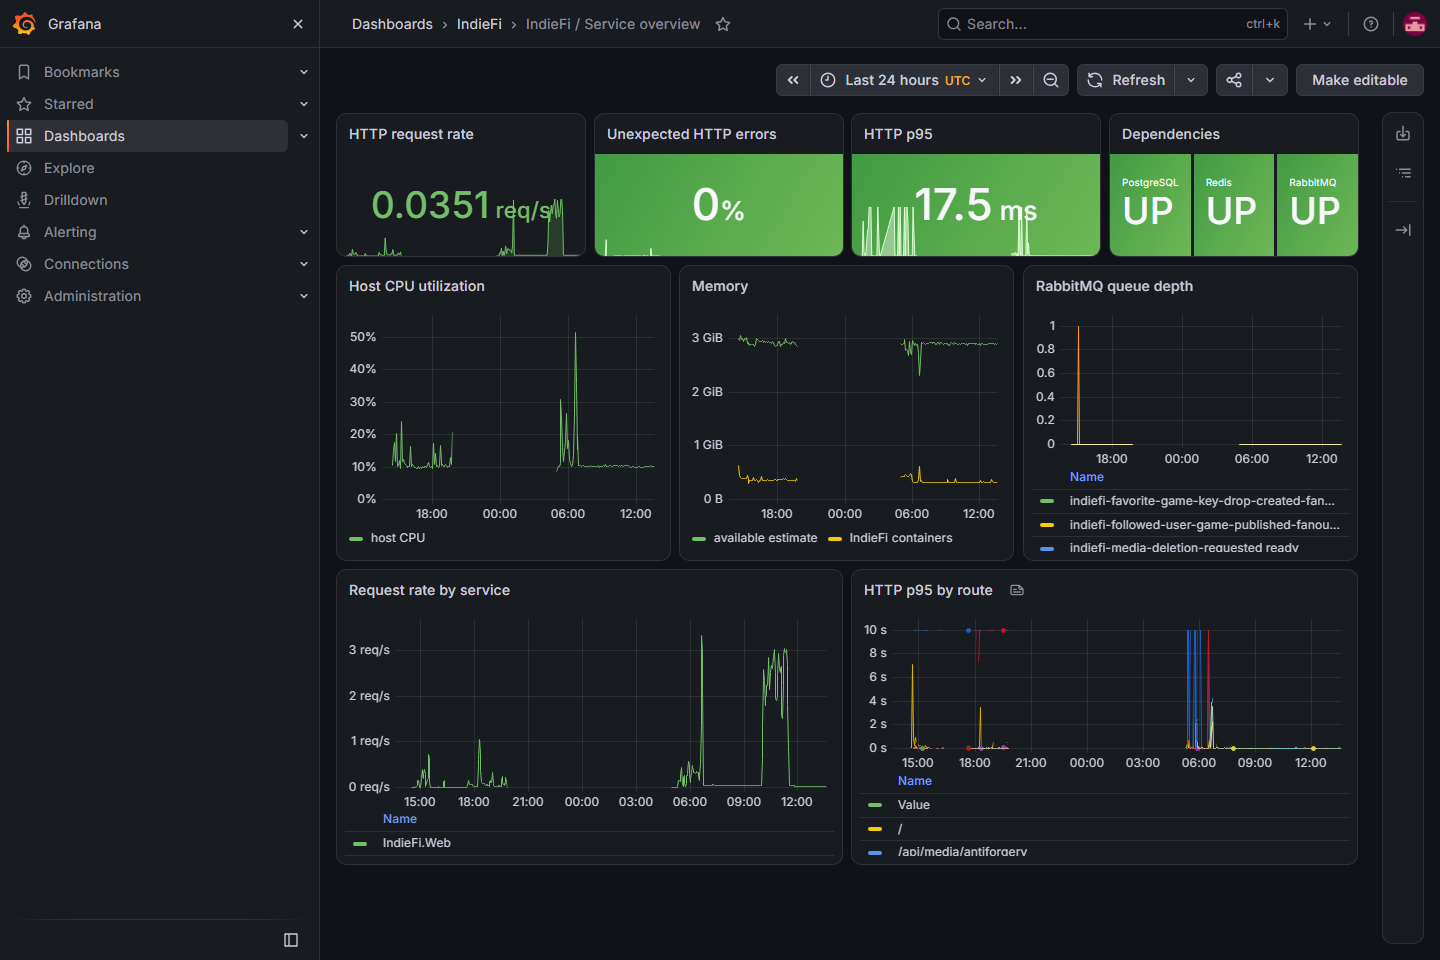
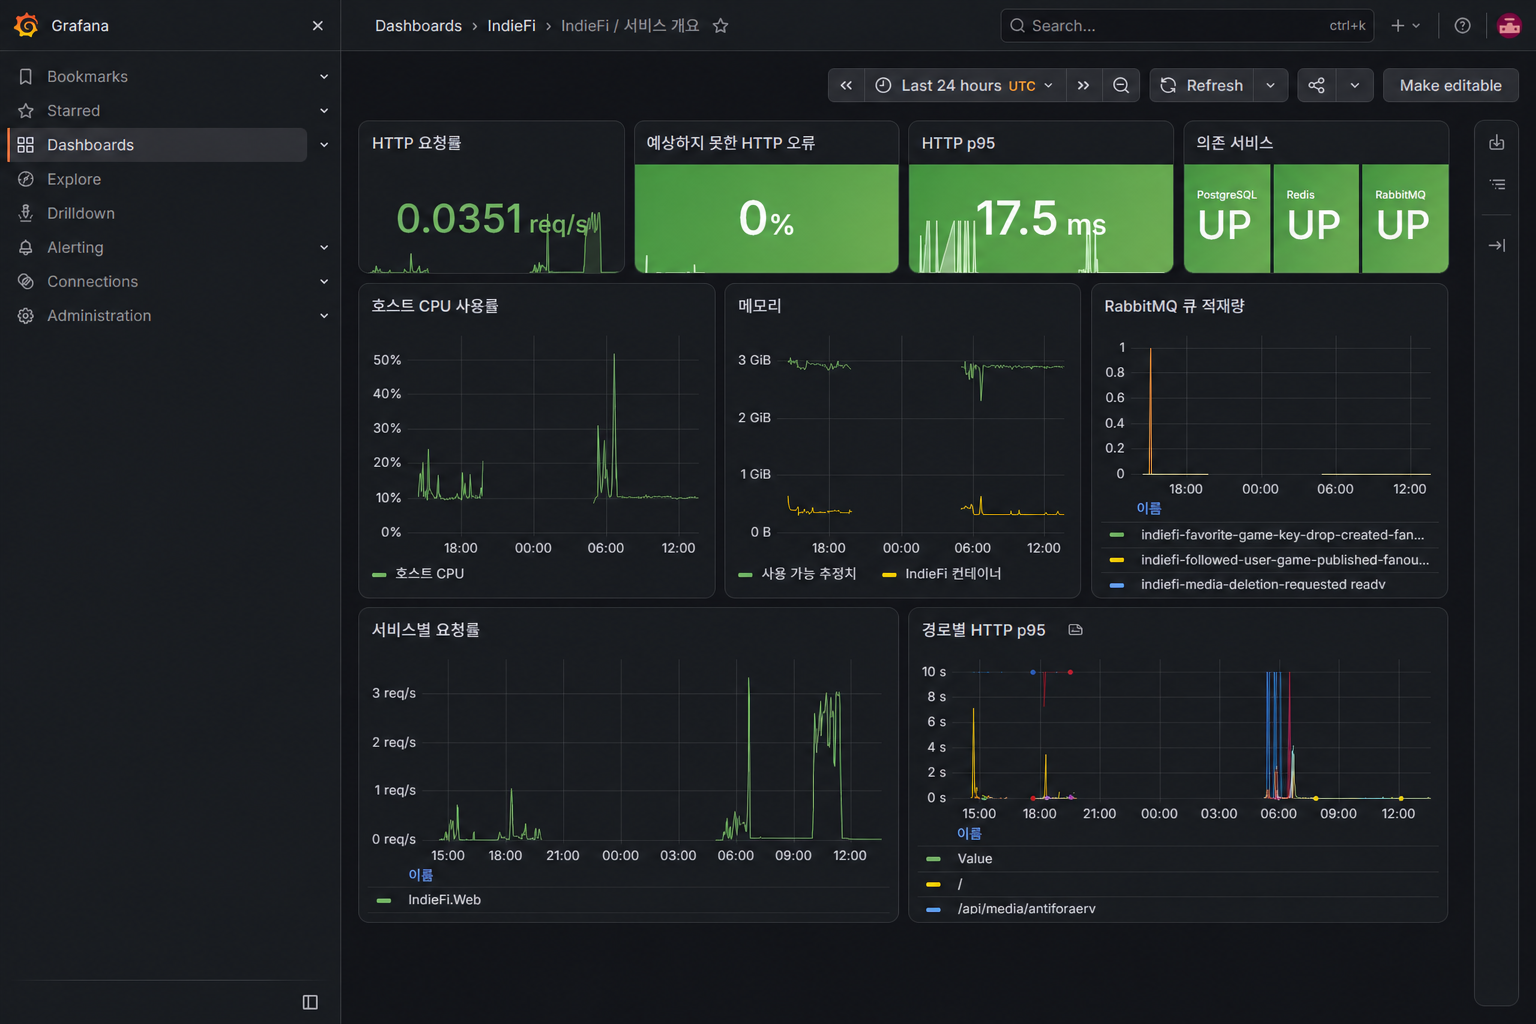
docs: 프로젝트 README 완성

diff --git a/README.md b/README.md
@@ -1,0 +1,201 @@
+# IndieFi
+
+> IndieFi는 인디 게임 개발자들이 서로 플레이테스트를 하고 피드백을 받을 수 있도록 만든 웹 서비스 프로젝트입니다.
+
+**바로가기**
+
+- [핵심 기능과 설계](#핵심-기능과-설계) · [검증과 운영](#검증과-운영)
+- [아키텍처와 기술 스택](#아키텍처와-기술-스택)
+- [프로젝트 구조](#프로젝트-구조) · [로컬 실행](#로컬-실행)
+
+<details>
+<summary><strong>프로젝트 배경 및 문제 상황</strong></summary>
+
+최근에는 AI를 포함한 제작 도구가 발전하면서 개인과 소규모 팀도 게임 제작에 도전하기 쉬워졌습니다. [SteamDB 집계](https://steamdb.info/stats/releases/)에서 Steam의 연간 게임 출시 수는 2019년 8,063개에서 2024년 18,468개, 2025년 21,318개로 증가했습니다. 더 많은 게임이 만들어지는 만큼 하나의 게임이 플레이어에게 발견되고, 출시 전에 충분히 검증받기는 어려워지고 있습니다.
+
+특히 인디 개발자는 제한된 인력과 비용 안에서 플레이테스트 참가자 모집, 버그와 사용성 확인, 객관적인 피드백 수집과 초기 홍보까지 직접 해결해야 합니다. [Gamedev.js 2024 설문](https://gamedevjs.com/survey/2024/)에서도 응답자의 93.3%가 직접 게임을 테스트했지만 자체 QA 팀이 있다는 응답은 10.3%에 불과했습니다. [인디 개발자 대상 플레이테스트 연구](https://eprints.whiterose.ac.uk/id/eprint/216480/)에서도 적절한 참가자를 찾고 피드백 데이터를 다루는 문제가 주요 어려움으로 확인됐습니다.
+
+IndieFi는 이 중 **출시 전 플레이테스터와 피드백을 확보하는 문제**에 집중했습니다. 다른 게임을 리뷰해 얻은 크레딧으로 자신의 게임에 리뷰를 요청하고, 게임 소개·검색과 한정 게임 키 배포를 통해 초기 플레이어와 만날 수 있도록 구성했습니다.
+
+</details>
+
+`C#` · `.NET 10` · `ASP.NET Core` · `PostgreSQL 18` · `Redis` · `RabbitMQ` · `OpenTelemetry`
+
+![IndieFi 로컬 샘플 화면](assets/readme/product-overview.png)
+
+> **현재 공개 서버는 중지된 상태입니다.**
+
+## 핵심 기능과 설계
+
+### 1. 크레딧 기반 피드백 교환
+
+**다른 게임 리뷰** → **크레딧 획득** → **내 게임의 리뷰 요청** → **리뷰어 자동 배정** → **피드백 수령**
+
+1. 다른 개발자의 게임을 리뷰하면 자신의 게임에 피드백을 요청할 때 사용할 크레딧을 받습니다.
+2. 크레딧을 사용한 요청은 오래 기다린 순서와 배정 조건에 따라 다른 리뷰어에게 자동으로 배정됩니다.
+3. 리뷰가 기한 안에 끝나지 않으면 다시 대기 상태로 돌아가며, 요청을 취소하면 사용한 크레딧을 돌려받습니다.
+
+![크레딧 기반 리뷰 작업 화면](assets/readme/credit-review-flow.png)
+
+*진행 중인 작업과 완료·만료 이력, 피드백을 기다리는 요청을 보여주는 로컬 샘플 화면입니다.*
+
+| 지켜야 할 조건 | 적용한 설계 |
+|---|---|
+| 동시에 요청해도 잔액이 음수가 되지 않음 | 적립·사용·환불을 누적 기록하는 크레딧 장부, PostgreSQL 트리거와 CHECK, 잔액 직접 수정 권한 제거 |
+| 차감과 리뷰 요청이 일부만 반영되지 않음 | 크레딧 차감과 요청 생성을 하나의 트랜잭션으로 처리 |
+| 하나의 요청은 한 명에게만 배정됨 | `SKIP LOCKED`, 부분 UNIQUE 인덱스와 제한 시간 배정 |
+| 재시도와 동시 종료가 중복 결과를 만들지 않음 | 요청 식별자와 상태·마감 시각을 이용한 조건부 갱신, 원래 차감을 참조하는 환불 기록 |
+
+실제 PostgreSQL에서 동시 요청과 중간 실패, 반복 제출·취소와 제출·만료 경쟁을 실행해 잔액 음수와 중복 배정·지급·환불이 발생하지 않는 것을 확인했습니다. 트리거와 DB 권한은 애플리케이션 밖의 방어선인 만큼 마이그레이션과 실제 DB 통합 테스트로 함께 관리합니다.
+
+### 2. 한정 게임 키 배포
+
+**배포 예약** → **사용자 사전 대기** → **순차 입장** → **자격·재고 확인** → **게임 키 1회 지급**
+
+1. 개발자는 오픈 시각과 게임 키를 등록하고 가입 기간·완료 리뷰 수 같은 참여 조건을 선택할 수 있습니다.
+2. 사용자는 오픈 알림을 신청하고 30분 전부터 가상 대기실에서 자신의 순서를 확인합니다.
+3. 차례가 되면 제한 시간 안에 키를 요청하며, 조건을 충족하고 재고가 남아 있으면 키 하나를 받습니다.
+4. 준비한 키가 모두 지급되거나 개발자가 조기 마감하면 대기실과 지급을 종료합니다.
+
+![한정 게임 키 배포 대기실 화면](assets/readme/key-drop-waiting-room.png)
+
+*현재 재고와 참여 조건, 사용자의 대기 순번을 보여주는 로컬 샘플 화면입니다.*
+
+| 담당 상태 | 저장소 | 처리 방식 |
+|---|---|---|
+| 대기 순번과 짧은 입장 권한 | Redis | Lua 스크립트로 진입·승격을 원자적으로 처리하고 서버 시각·TTL·AOF 사용 |
+| 키 재고와 최종 지급 결과 | PostgreSQL | 행 잠금, `FOR UPDATE SKIP LOCKED`, 사용자·키 UNIQUE와 상태 버전으로 확정 |
+| Redis 장애 후 대기실 복구 | Redis + PostgreSQL | PostgreSQL의 확정된 지급 결과를 기준으로 임시 상태를 재동기화 |
+
+단일 EC2의 60명 집중 유입에서 42회 지급 요청 중 준비한 키 36개가 정확히 지급됐고 HTTP 오류와 사용자·키 중복은 없었습니다. 100명에서도 지급 정합성은 유지됐지만 대기 상태 조회 p95가 목표 750ms를 넘어 1.291초가 됐습니다. 따라서 **응답시간 목표까지 확인한 범위는 60명**이며, Redis 자체의 최대 처리량이나 동시 수천 명을 검증한 결과로 표현하지 않습니다.
+
+### 3. 알림과 미디어 비동기 처리
+
+- **고려한 실패:** DB 트랜잭션 확정과 메시지 발행을 따로 수행하면 DB만 반영된 상태에서 프로세스가 종료될 수 있습니다. RabbitMQ의 최소 한 번 전달(at-least-once) 방식에서는 처리한 메시지가 다시 전달될 수도 있습니다.
+- **설계 결정:** 도메인 변경과 Outbox 메시지를 같은 트랜잭션에 저장하고 Worker가 RabbitMQ로 발행합니다. 소비 측은 Inbox와 이벤트 ID로 중복을 확인하고, 실패가 반복될수록 대기 시간을 늘려 재시도한 뒤 한도를 넘은 메시지는 오류 큐로 분리합니다.
+
+```mermaid
+flowchart LR
+    A["사용자 요청"] --> B["PostgreSQL 트랜잭션<br/>도메인 변경 + Outbox 저장"]
+    B --> C["Outbox 발행"]
+    C --> D["RabbitMQ"]
+    D --> E["Worker + Inbox"]
+    E --> F["알림·R2·SES 처리"]
+    F -- 일시 실패 --> G["대기 시간을 늘려 재시도"]
+    G --> F
+    G -- 한도 초과 --> H["오류 큐"]
+```
+
+RabbitMQ·R2·SES 장애 뒤 보류 작업이 다시 처리되고 알림·미디어·이메일 상태가 중복 없이 최종 상태로 수렴하는 것을 확인했습니다. 이는 최소 한 번 전달에서 안전하게 처리하도록 만든 것이며 정확히 한 번 전달(exactly-once)을 구현했다는 의미는 아닙니다.
+
+### 4. 계정 이메일과 게임 키 보호
+
+DB가 유출되더라도 이메일과 게임 키 원문이 바로 노출되지 않도록, 나중에 원문이 필요한 데이터와 다시 복원할 필요가 없는 데이터를 구분했습니다.
+
+| 데이터 | DB에 저장하는 값 | 사용할 때의 처리 |
+|---|---|---|
+| 계정 이메일 | AES-256-GCM 암호문 + HMAC-SHA-256 검색값 | HMAC으로 찾고 필요한 경우 복호화 |
+| 게임 키 | AES-256-GCM 암호문 + HMAC-SHA-256 중복 확인값 | HMAC으로 중복을 확인하고 지급된 키만 복호화 |
+| 인증·비밀번호 재설정 토큰 | 원문을 복원할 수 없는 해시 | 전달받은 토큰을 다시 해시해 저장값과 비교 |
+
+용도마다 서로 다른 키를 사용하고 키 교체 도구를 마련했습니다. 암호화되지 않은 값이 남아 있으면 최종 마이그레이션을 중단하며, DB와 보호 키를 빈 환경에 복원해 로그인·이메일 조회와 게임 키 복호화까지 확인했습니다. 보호 키를 잃으면 데이터도 복구할 수 없으므로 데이터와 키는 분리해 백업합니다.
+
+### 5. 게임 상세 조회 성능
+
+- **관측:** 개선 전 공개 조회·검색 혼합 부하를 200 RPS(초당 요청 200건)까지 높였을 때 EC2 CPU가 99.99%에 도달했고, k6가 시작하지 못한 테스트 반복이 5,205건 발생했습니다.
+- **분석:** 느린 게임 상세 요청의 OpenTelemetry 요청 추적에는 연관 데이터를 순서대로 조회하는 PostgreSQL 호출 구간이 약 10개 있었습니다. 이를 CPU 포화의 단일 원인으로 단정하지 않고, 측정 가능한 첫 번째 병목 후보로 선택했습니다.
+- **개선:** 화면에 필요한 데이터만 선택하고 연관 조회를 합쳐 상세 요청의 SQL 실행을 4회로 줄인 뒤 같은 EC2·테스트 데이터·부하 조건에서 다시 측정했습니다.
+
+![게임 상세 조회 성능 개선 결과](assets/readme/performance-improvement.png)
+
+| 지표 | 개선 전 | 개선 후 |
+|---|---:|---:|
+| 상세 요청 SQL 실행 | 약 10회 | 4회 |
+| 100 RPS 상세 p95 | 84.57ms | 36.54ms |
+| 200 RPS 시작하지 못한 테스트 반복 | 5,205 | 1,823 |
+
+개선 후에도 200 RPS에서는 시간 초과 96건과 시작하지 못한 테스트 반복 1,823건이 남아 실패 구간으로 분류했습니다. 이 수치는 단일 EC2 `t3.medium`과 해당 부하 조건에서의 결과이며 다른 환경에서도 같은 개선율을 보장한다는 의미는 아닙니다.
+
+### 그 밖의 기능
+
+- 이메일 가입·인증, Google 로그인과 비밀번호 재설정
+- 게임 등록·검색·필터, 프로필·팔로우와 관심 게임
+- 프로필 이미지, 게임 표지와 스크린샷 관리
+- 사이트 내 실시간 알림, 이메일 알림과 수신 설정
+
+## 검증과 운영
+
+단위 테스트에만 머물지 않고 실제 PostgreSQL·Redis·RabbitMQ·MinIO 통합 테스트, Chromium 사용자 흐름과 공인 HTTPS 부하 테스트로 위험을 확인했습니다. 현재 HEAD의 Release 전체 회귀에서는 **1,270개 테스트가 통과**했으며 실패와 건너뜀은 없었습니다.
+
+![IndieFi Grafana 서비스 대시보드](assets/readme/observability-dashboard.png)
+
+*배포 환경에서 HTTP 요청률·오류율·응답시간, 호스트 자원과 의존성 상태를 함께 확인한 Grafana 화면입니다.*
+
+- OpenTelemetry 메트릭·로그·요청 추적을 Grafana에서 연결해 성능 구간과 장애 전후 상태를 확인했습니다.
+- Web·Worker·PostgreSQL·Redis·RabbitMQ·R2·SES를 하나씩 중단하고 복구하는 **7개의 장애 복구 시나리오**를 실행해보았습니다. PostgreSQL 중단 중에도 준비 상태 확인이 200을 반환하던 결함과 Redis 중단 시 대기실이 500을 반환하던 결함을 발견해, 의존성 장애에는 503을 반환하고 복구 후 자동으로 정상화되도록 수정했습니다.
+- RabbitMQ 중단 중에도 작업 의도를 Outbox에 보존했으며, 장애 주입부터 미처리 항목이 0건이 될 때까지 251초가 걸렸습니다. 빈 환경 복원은 첫 시도부터 로그인·이메일 조회·게임 키 복호화 확인까지, 실패 수정 시간을 포함해 약 18분 10초가 걸렸습니다.
+- 모든 push와 pull request에서 GitHub Actions가 전체 빌드와 테스트를 수행합니다. CD는 평소 EC2를 중지하는 비용 조건 때문에 수동으로만 시작합니다.
+- 배포 때는 GitHub OIDC로 AWS 임시 권한을 발급하고, 실행 중에만 GitHub Actions 실행 서버의 IP에 SSH를 열었습니다. 산출물의 SHA-256을 검증한 뒤 커밋별 새 디렉터리에 설치하고 현재 버전을 가리키는 링크를 전환했습니다.
+
+재현 절차와 배포 흐름은 코드 가까이에 남겼습니다.
+
+- [관측 환경](dev/ops/observability/README.md)
+- [백업과 복원](dev/ops/recovery/README.md)
+- [의존성 장애 훈련](dev/ops/failure-drills/README.md)
+- [다중 프로세스 검증](dev/ops/scale-validation/README.md)
+- [서버 검증 계약](dev/ops/validation/README.md)
+- [CI/CD](.github/workflows/ci.yml)
+
+## 아키텍처와 기술 스택
+
+![IndieFi 시스템 아키텍처](assets/readme/system-architecture.png)
+
+기능 중심 논리 모듈로 구성한 **모듈형 모놀리스**입니다. HTTP와 UI는 `IndieFi.Web`이, 이메일·알림·미디어 같은 비동기 작업은 `IndieFi.Worker`가 처리합니다.
+
+| 영역 | 기술 | 책임 |
+|---|---|---|
+| Web | C#, .NET 10, ASP.NET Core Razor Pages, SignalR | HTTP·UI, 인증과 실시간 상태 갱신 |
+| 영구 데이터 | EF Core, Npgsql, PostgreSQL 18 | 크레딧·리뷰·키 지급의 최종 상태와 DB 제약조건으로 지키는 데이터 정합성 |
+| 공유 상태 | StackExchange.Redis, Redis | 대기실, 요청 제한, 캐시와 SignalR 서버 간 메시지 공유 |
+| 메시징 | MassTransit, RabbitMQ | Outbox·Inbox 기반 비동기 전달과 여러 Worker의 메시지 분담 처리 |
+| 미디어 | Cloudflare R2, S3 API, SkiaSharp | 브라우저 직접 업로드, 객체 저장과 파생 이미지 |
+| 관측 | OpenTelemetry, Prometheus, Loki, Tempo, Grafana | 메트릭·로그·요청 추적의 연계 분석 |
+| 운영·검증 | AWS EC2, Nginx, systemd, Docker, GitHub Actions, xUnit, Playwright, k6 | 배포·프로세스 운영과 자동화된 검증 |
+
+Web 모듈은 하나의 `AppDbContext`와 트랜잭션 경계를 공유하며 독립 배포 가능한 마이크로서비스로 표현하지 않았습니다. 같은 EC2에서 Web 2개·Worker 2개를 실행해 공유 상태와 여러 Worker가 메시지를 나누어 처리하는 것을 확인했지만, 이는 다중 호스트 고가용성의 증거는 아닙니다.
+
+## 프로젝트 구조
+
+```text
+.
+├─ .github/workflows/ci.yml       # CI와 수동 CD
+├─ assets/readme/                 # README 시각 자료
+├─ dev/
+│  ├─ src/
+│  │  ├─ IndieFi.Web/            # HTTP·UI와 기능 모듈
+│  │  └─ IndieFi.Worker/         # 이메일·알림·미디어 비동기 처리
+│  ├─ tests/IndieFi.Web.Tests/    # xUnit·Testcontainers·Playwright
+│  ├─ loadtest/                   # k6 부하 조건과 측정 자동화
+│  ├─ ops/                        # 배포·관측·복구·장애 훈련 절차
+│  └─ tools/                      # 테스트 데이터·감사와 보호 키 교체 도구
+├─ run.bat                        # 전체 로컬 개발 환경 시작
+└─ test.bat                       # 개발 테스트 진입점
+```
+
+Web 내부는 `Accounts`, `Credits`, `Feedback`, `Games`, `KeyDistributions`, `Media`, `Notifications`, `Profiles` 모듈로 나뉩니다. 각 모듈 내부는 필요에 따라 `Application`, `Domain`, `Infrastructure`, `Contracts` 역할을 구분합니다.
+
+## 로컬 실행
+
+Windows PowerShell, .NET 10과 Docker Desktop 환경을 기준으로 검증했습니다. 필요한 항목은 [로컬 환경 예시](dev/.env.example)와 [설정 검사 스크립트](dev/scripts/Test-LocalUserSecrets.ps1)에서 확인할 수 있으며, 설정 후 다음 진입점을 사용합니다.
+
+```powershell
+.\run.bat --check
+.\run.bat
+.\test.bat
+```
+
+`run.bat`은 설정 검사 후 PostgreSQL·Mailpit·Redis·RabbitMQ·MinIO, 마이그레이션, Worker와 Web을 시작합니다. `test.bat`은 Docker 기반 통합 테스트를 포함한 테스트 진입점입니다.
+
+## 개발 방식
+
+개인 프로젝트로 요구사항과 검증 기준을 단계별 명세·로드맵·작업 기록에 남겼습니다. AI를 코드 초안·검토와 문서 정리의 보조 도구로 활용했으며, 기능 범위와 설계 선택을 단계별로 검토하고 실제 환경에서 배포·부하·장애·복원 절차를 실행해 결과와 수치를 확인했습니다.
